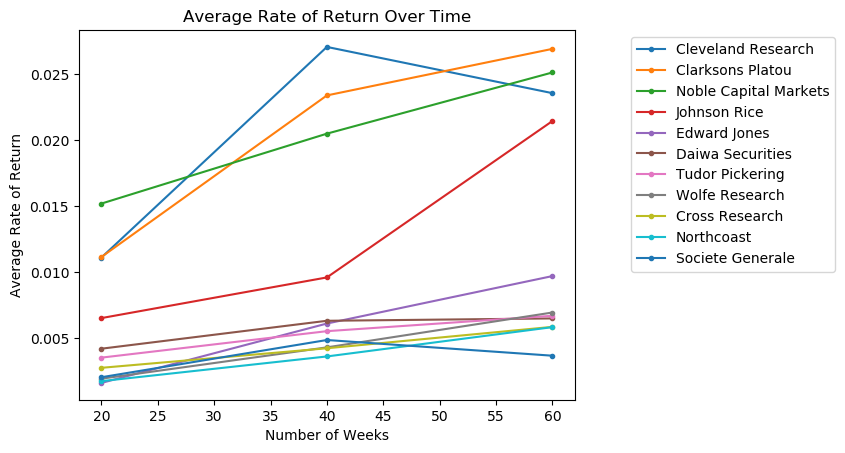
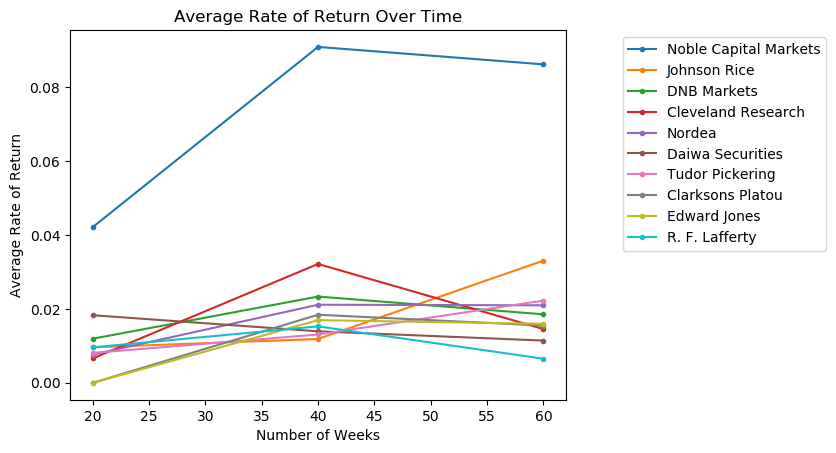
stocks with null price not considered

diff --git a/main.py b/main.py
@@ -21,7 +21,7 @@ def find_analyst(name, analyst_object_list):
 
 def graph_top_10(analyst_object_list):
     analyst_object_list.sort(key=get_average_rate_of_return_for_all_periods, reverse=True)
-    analyst_object_list = analyst_object_list[0:11]
+    analyst_object_list = analyst_object_list[0:10]
 
     figure, axes = plt.subplots(nrows=1, ncols=1)
     axes.set_title("Average Rate of Return Over Time")
@@ -44,13 +44,20 @@ def main():
         """
     connection = po.connect(sqlite_connection_string)
 
-
     recommendations_query = """
-                SELECT a.data_date, a.ticker, a.price, b.analyst, b.updown
-                FROM v_fundamentals AS a JOIN recommendations AS b ON (a.ticker = b.ticker AND a.data_date = b.data_date)
-                WHERE updown = 'Upgrade ' OR updown = 'Downgrade'
-                ORDER BY a.data_date ASC;
-                """
+                    SELECT data_date, ticker, analyst, updown
+                    FROM recommendations
+                    WHERE (updown = 'Upgrade ' OR updown = 'Downgrade')
+                    ORDER BY data_date ASC;
+                    """
+
+    #TESTTTTTTTTTTTTTTTTTTTTTTTTTTTTTTTTTTTT
+    # recommendations_query = """
+    #             SELECT data_date, ticker, analyst, updown
+    #             FROM recommendations
+    #             WHERE (updown = 'Upgrade ' OR updown = 'Downgrade') AND (analyst = 'Goldman' OR analyst = 'Barclays' OR analyst = 'Morgan Stanley')
+    #             ORDER BY data_date ASC;
+    #             """
 
     # Stores analyst obejects, each corresonding to an analyst
     analyst_object_list = []
@@ -58,13 +65,20 @@ def main():
     # Get total # of recommendations for progress report.
     cursor = connection.cursor()
     count_query = """
-                        SELECT COUNT(*) AS COUNT
-                        FROM recommendations;
-                         """
+                            SELECT COUNT(*) AS COUNT
+                            FROM recommendations
+                            WHERE (updown = 'Upgrade ' OR updown = 'Downgrade');
+                            """
+    # TESTTTTTTTTTTTTTTTTTTTTTTTTTTTTTTTTTTTTTT
+    # count_query = """
+    #                     SELECT COUNT(*) AS COUNT
+    #                     FROM recommendations
+    #                     WHERE (updown = 'Upgrade ' OR updown = 'Downgrade') AND (analyst = 'Goldman' OR analyst = 'Barclays' OR analyst = 'Morgan Stanley');
+    #                    """
     cursor.execute(count_query)
-    # total_recommendations = cursor.fetchval()
+    total_recommendations = cursor.fetchval()
     # TEST ONLY:
-    total_recommendations = 1000
+    # total_recommendations = 1000
 
     chunksize = 1000
     iteration = 0
@@ -73,7 +87,7 @@ def main():
     for df in pd.read_sql(sql=recommendations_query, con=connection, chunksize=chunksize):
         iteration += 1
 
-        # For each recommendation out of those 1000 recommendations:
+        # For each recommendation out of those chunksize recommendations:
         for (index_label, row_series) in df.iterrows():
             # Find the analyst object if it exists or else create one and return it.
             analyst_object = find_analyst(row_series["analyst"], analyst_object_list)
@@ -82,7 +96,7 @@ def main():
                 previous_existing_day_query = """
                                             SELECT data_date
                                             FROM v_fundamentals 
-                                            WHERE data_date <= ? AND ticker = ?
+                                            WHERE data_date <= ? AND ticker = ? AND price IS NOT NULL
                                             ORDER BY data_date DESC
                                             LIMIT 1;
                                              """
@@ -90,37 +104,38 @@ def main():
                 cursor.execute(previous_existing_day_query, (row_series["data_date"], row_series["ticker"]))
                 previous_existing_day_date = cursor.fetchval()
 
-                stock_query = """
-                    SELECT price
-                    FROM v_fundamentals
-                    WHERE data_date >= ? AND ticker = ?
-                    ORDER BY data_date ASC;
-                    """
+                if previous_existing_day_date is not None:
+                    stock_query = """
+                        SELECT price
+                        FROM v_fundamentals
+                        WHERE data_date >= ? AND ticker = ? AND price IS NOT NULL
+                        ORDER BY data_date ASC;
+                        """
 
-                df_61 = next(
-                    pd.read_sql(sql=stock_query, params=(previous_existing_day_date, row_series["ticker"]), con=connection,
-                                chunksize=61))
-                # Disregard most recent or too old
-                if len(df_61) == 61:
-                    current_price = row_series["price"]
-                    business_day_20_price = df_61.loc[20].copy()["price"]
-                    business_day_40_price = df_61.loc[40].copy()["price"]
-                    business_day_60_price = df_61.loc[60].copy()["price"]
+                    df_61 = next(
+                        pd.read_sql(sql=stock_query, params=(previous_existing_day_date, row_series["ticker"]), con=connection,
+                                    chunksize=61))
+                    # Disregard most recent or too old
+                    if len(df_61) == 61:
+                        current_price = df_61.loc[0].copy()["price"]
+                        business_day_20_price = df_61.loc[20].copy()["price"]
+                        business_day_40_price = df_61.loc[40].copy()["price"]
+                        business_day_60_price = df_61.loc[60].copy()["price"]
 
-                    # Calculate rate of return for each time period
-                    if row_series["updown"] == "Upgrade":
-                        twenty_business_days_rate_of_return = (business_day_20_price - current_price) / current_price
-                        forty_business_days_rate_of_return = (business_day_40_price - current_price) / current_price
-                        sixth_business_days__rate_of_return = (business_day_60_price - current_price) / current_price
-                    elif row_series["updown"] == "Downgrade":
-                        twenty_business_days_rate_of_return = - (business_day_20_price - current_price) / current_price
-                        forty_business_days_rate_of_return = - (business_day_40_price - current_price) / current_price
-                        sixth_business_days__rate_of_return = - (business_day_60_price - current_price) / current_price
+                        # Calculate rate of return for each time period
+                        if row_series["updown"] == "Upgrade":
+                            twenty_business_days_rate_of_return = (business_day_20_price - current_price) / current_price
+                            forty_business_days_rate_of_return = (business_day_40_price - current_price) / current_price
+                            sixth_business_days__rate_of_return = (business_day_60_price - current_price) / current_price
+                        elif row_series["updown"] == "Downgrade":
+                            twenty_business_days_rate_of_return = - (business_day_20_price - current_price) / current_price
+                            forty_business_days_rate_of_return = - (business_day_40_price - current_price) / current_price
+                            sixth_business_days__rate_of_return = - (business_day_60_price - current_price) / current_price
 
-                    # Add average rate of return to this analyst's object
-                    analyst_object.add_gross_profits_as_averaged_profits((twenty_business_days_rate_of_return,
-                                                                          forty_business_days_rate_of_return,
-                                                                          sixth_business_days__rate_of_return))
+                        # Add average rate of return to this analyst's object
+                        analyst_object.add_gross_profits_as_averaged_profits((twenty_business_days_rate_of_return,
+                                                                              forty_business_days_rate_of_return,
+                                                                              sixth_business_days__rate_of_return))
 
         # Get progress report
         percent_complete = np.round(iteration * chunksize / total_recommendations * 100, decimals=2)
@@ -129,8 +144,8 @@ def main():
         print(str(percent_complete) + "%")
 
         # Test
-        if iteration == 1:
-            break
+        # if iteration == 1:
+        #     break
 
     for x in analyst_object_list:
         x.calculate_average_rate_of_return_for_all_periods()
